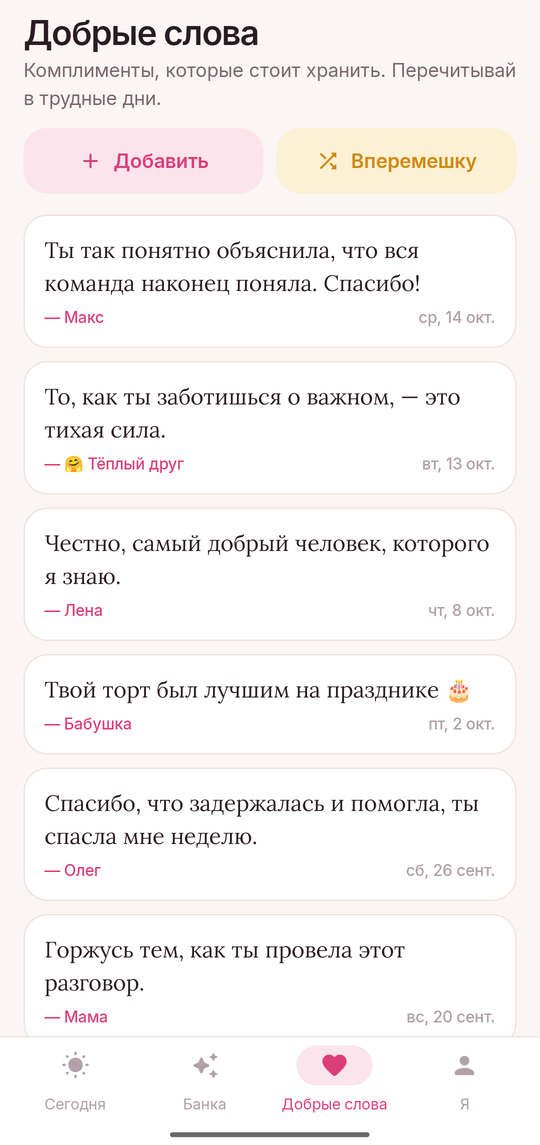
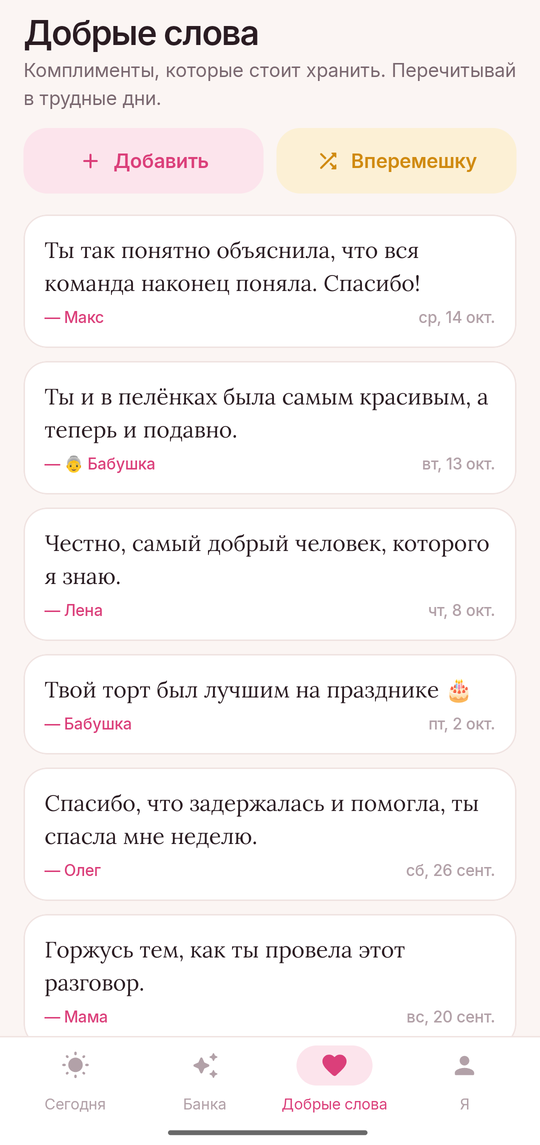
Granny voice in the Russian demo, a new tagline

Changed region(s): [[0.0889, 0.3362, 0.8593, 0.4279], [0.3259, 0.9782, 0.6815, 1.0], [0.8889, 0.3362, 0.9185, 0.3668]]

diff --git a/app/src/main/java/app/glow/data/DemoSeed.kt b/app/src/main/java/app/glow/data/DemoSeed.kt
@@ -46,7 +46,8 @@ object DemoSeed {
         val ru = Locale.getDefault().language == "ru"
         val content = Content.of(Locale.getDefault())
         val name = if (ru) "Аня" else "Anna"
-        val voice = Voice.FRIEND
+        // Russian screenshots show off the granny; English ones the warm friend.
+        val voice = if (ru) Voice.GRANNY else Voice.FRIEND
         val zone = ZoneId.systemDefault()
         val today = LocalDate.now(zone)
         val now = System.currentTimeMillis()

diff --git a/README.ru.md b/README.ru.md
@@ -4,7 +4,7 @@
 
 # Glow
 
-### Карманный фанат, который замечает каждую твою победу
+### Каждая победа заслуживает похвалы
 
 *Запиши, что у тебя получилось, от помытой посуды до новой работы, и получи за это похвалу. Банка, которая наполняется победами, пять голосов поддержки, SOS для трудных минут и переводчик для внутреннего критика. Бесплатно, без рекламы и аккаунта, работает офлайн.*
 

diff --git a/README.md b/README.md
@@ -4,7 +4,7 @@
 
 # Glow
 
-### A pocket fan who notices every win
+### Every win deserves a little praise
 
 *Write down what you did, from washing the dishes to landing the job, and get praised for it. A jar that fills with your wins, five voices to cheer you on, an SOS for hard moments and a translator for your inner critic. Free, no ads, no account, works offline.*
 
